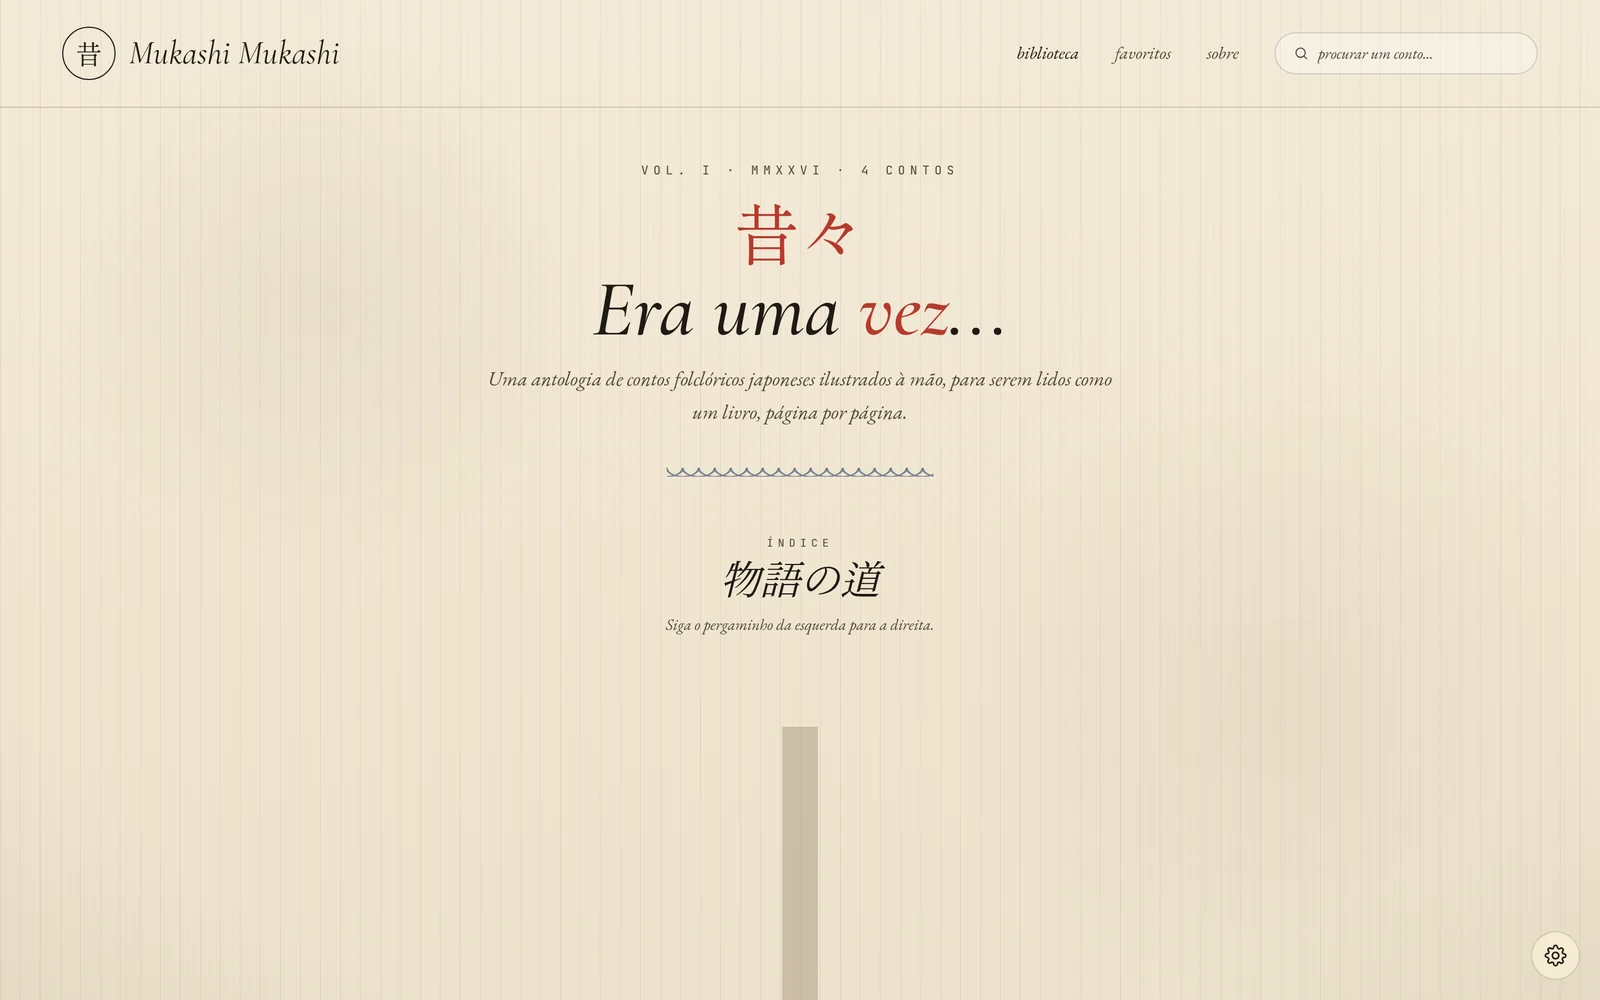
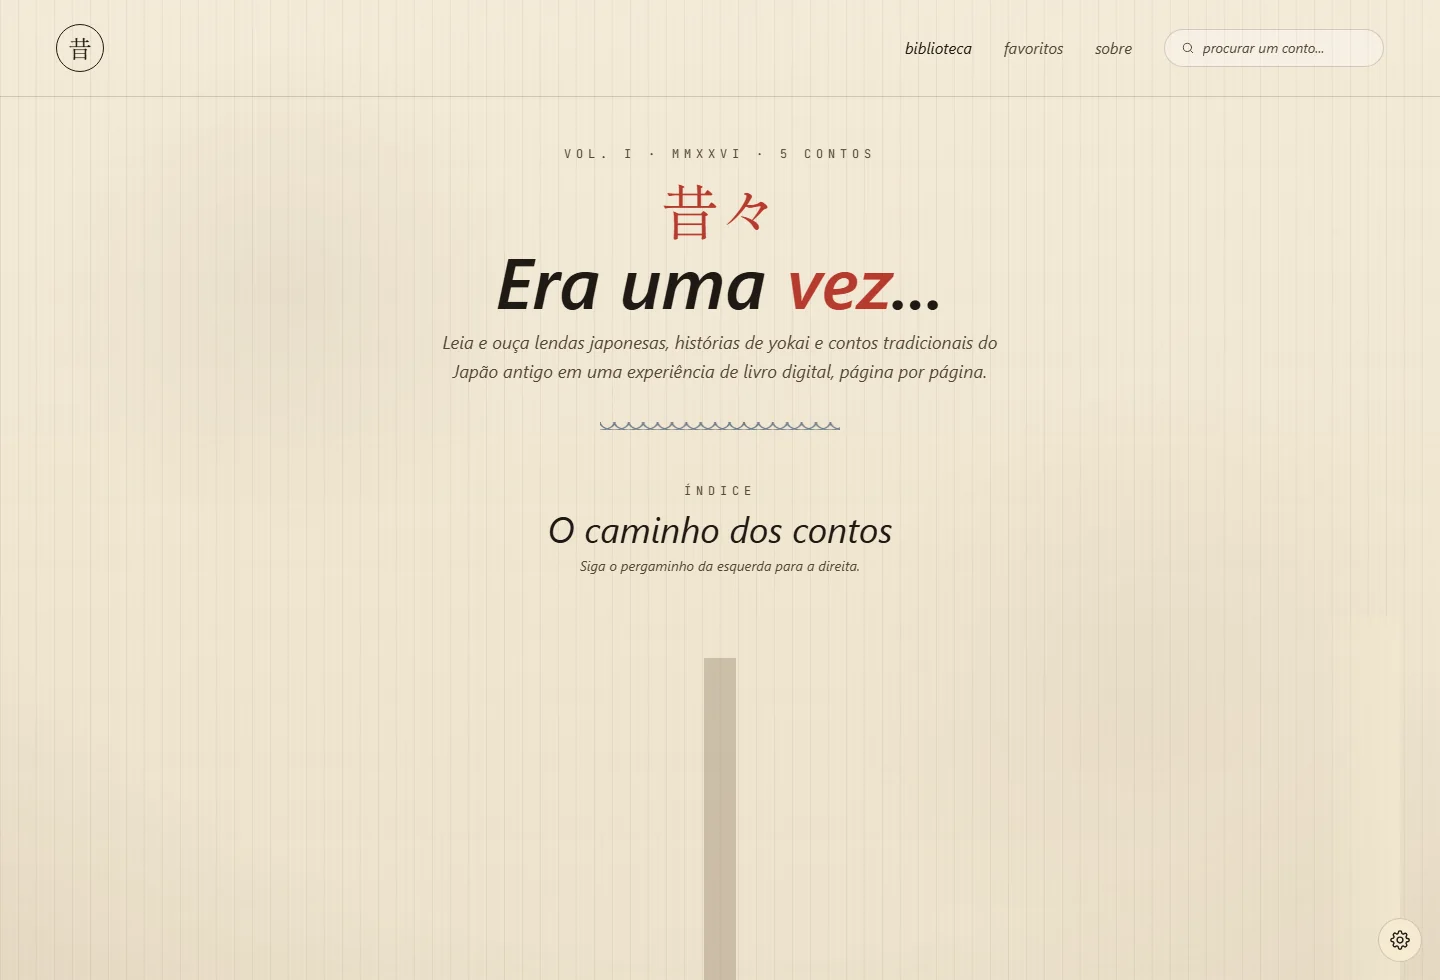
Update project showcase

diff --git a/README.md b/README.md
@@ -1,19 +1,23 @@
-# MukashiMukashi
+# MukashiMukashi Project
 
-**Japanese folklore web reader** — illustrated tales read like a real book, page by page.
+**Illustrated folklore web reader** — traditional stories presented as a calm digital book, page by page.
 
-🌐 **[Live site → mukashi-banashi-two.vercel.app](https://mukashi-banashi-two.vercel.app)**
+🌐 **[Live site → mukashimukashi.net](https://www.mukashimukashi.net)**
+
+This public repository is a showcase for the project. The production source code is maintained in a private repository.
 
 ---
 
 ## Screenshots
 
 ### Home
+
 ![Home hero](screenshots/home-hero.webp)
 
 ![Story library](screenshots/home-library.webp)
 
 ### Reader
+
 ![Desktop reader](screenshots/reader-desktop.webp)
 
 <p align="center">
@@ -22,23 +26,25 @@
 
 ---
 
-## Features
+## Highlights
 
-- Book-style reader with page-turn animation, portrait/landscape mode and three font sizes
-- Voice narration (Web Speech API) with automatic female-voice selection per language
-- 13 languages: Português, English, 日本語, Español, 中文, Italiano, ไทย, Tiếng Việt, Русский, Indonesia, Français, Deutsch, 한국어
-- 6 font families (classic, serif, modern, mincho, baloo, merriweather)
-- Favorites, search and reading progress persisted locally
-- Social sharing (Facebook, WhatsApp, Reddit, link copy)
-- Full SEO: meta tags, Open Graph, Twitter Cards, JSON-LD, sitemap.xml, robots.txt
-- Dedicated layouts for desktop and mobile
+- Digital book-style reader with page-by-page navigation
+- Illustrated Japanese folktales, including Urashima Taro, Momotaro, The Witch and the Monk, The Good Old Man and the Bad Old Man, and The Carpenter and the Demon
+- Multilingual experience in 15 languages: Portuguese, English, Japanese, Spanish, Chinese, Italian, Thai, Vietnamese, Russian, Indonesian, French, German, Korean, Hindi, and Swedish
+- Automatic language routing on the homepage, with bot-safe behavior for search engines
+- Local reading progress, favorites, search, font selection, and accessibility-minded controls
+- Optimized AVIF images with WebP fallbacks
+- SEO-ready metadata, canonical URLs, hreflang alternates, JSON-LD, robots.txt, and sitemap.xml
+- Responsive layouts for desktop and mobile reading
 
 ## Stack
 
 | Layer | Technology |
-|-------|-----------|
-| Framework | Next.js 16 (Pages Router) + React 19 |
-| Styling | Tailwind CSS 3 with custom "paper" theme |
-| Deploy | Vercel (automatic CI/CD) |
-| i18n | Custom geo-detection routing |
-| Analytics | Vercel Analytics + Speed Insights |
+|-------|------------|
+| Framework | Next.js 16, Pages Router, React 19 |
+| Styling | Tailwind CSS 3 with a custom paper-inspired theme |
+| Images | AVIF primary assets with WebP fallback |
+| i18n | Custom locale routing and localized story metadata |
+| SEO | Open Graph, Twitter Cards, JSON-LD, sitemap, canonical and hreflang |
+| Deploy | Vercel |
+
